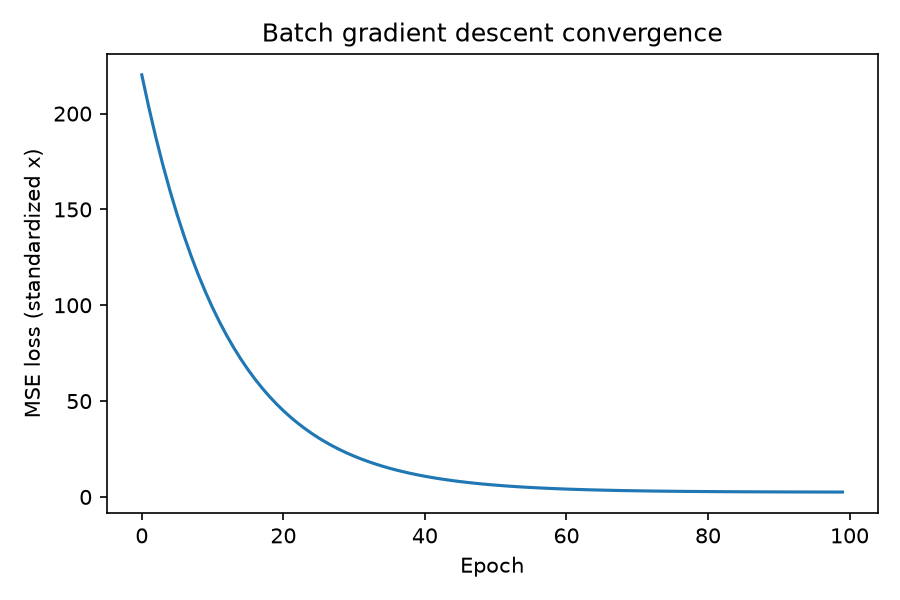
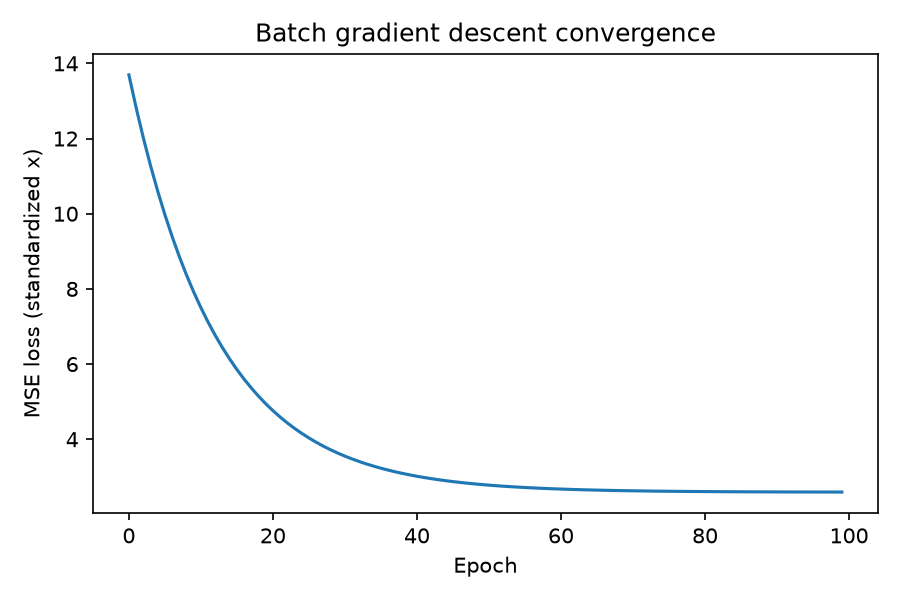
use delaney-esol csv

diff --git a/projects/01_linear_reg/plotting.py b/projects/01_linear_reg/plotting.py
@@ -52,8 +52,8 @@ def plot_fit(
         label="Gradient descent fit",
     )
 
-    plt.xlabel("log2 LFQ intensity, RNF4-WT")
-    plt.ylabel("log2 LFQ intensity, RNF4-mutant")
+    plt.xlabel("Molecular Weight")
+    plt.ylabel("measured log solubility (mol/L")
 
     plt.legend()
     plt.tight_layout()
@@ -118,33 +118,31 @@ def plot_lr_sweep(
     final_losses: np.ndarray,
     path: Path) -> None:
 
-    diverged = final_losses >= DIVERGED_CAP
+    # diverged = final_losses >= DIVERGED_CAP
 
     plt.figure(figsize=(6.5, 5))
     plt.plot(
-        learning_rates[~diverged],
-        final_losses[~diverged],
+        learning_rates,
+        final_losses,
         "o-",
         color="steelblue",
         markersize=4,
     )
-    if diverged.any():
-        plt.scatter(
-            learning_rates[diverged],
-            final_losses[diverged],
-            color="crimson",
-            marker="x",
-            s=50,
-            label="Diverged (capped for display)",
-        )
-
-    plt.axvline(0.5, color="gray", linestyle=":", linewidth=1, label="Theoretical optimum (lr=0.5)")
-    plt.xscale("log")
+    # if diverged.any():
+    #     plt.scatter(
+    #         learning_rates[diverged],
+    #         final_losses[diverged],
+    #         color="crimson",
+    #         marker="x",
+    #         s=50,
+    #         label="Diverged (capped for display)",
+    #     )
+    # plt.xscale("log")
     plt.yscale("log")
     plt.xlabel("Learning rate")
     plt.ylabel("MSE loss at final epoch")
     plt.title("Effect of learning rate on final training loss")
-    plt.legend(fontsize=8)
+    # plt.legend(fontsize=8)
     plt.tight_layout()
     plt.savefig(path, dpi=150)
     plt.close()

diff --git a/projects/01_linear_reg/linear_regression.py b/projects/01_linear_reg/linear_regression.py
@@ -1,9 +1,7 @@
 """
 Univariate linear regression via batch gradient descent
 
-Dataset: Barroso-Gomila et al. 2023 RNF4 BioE3 proximity-labeling proteomics screen (data/barroso-gomila2023.xlsx)
-
-x and y are log2 LFQ intensities of a wt and mutant protein RNF4
+Dataset: delaney-esol.csv
 """
 
 from __future__ import annotations
@@ -27,9 +25,9 @@ REPO_ROOT = Path(__file__).resolve().parents[2]
 DATA_DIR = REPO_ROOT / "data"
 FIG_DIR = Path(__file__).resolve().parent / "fig"
 
-SHEET_NAME = "RNF4 BioE3"
-X_COL = "RNF4WT_1"
-Y_COL = "RNF4CA_1"
+# SHEET_NAME = "RNF4 BioE3"
+X_COL = "Molecular Weight"
+Y_COL = "measured log solubility in mols per litre"
 
 LEARNING_RATES = np.logspace(-4, np.log10(1.5), 40)
 DIVERGED_CAP = 1.0e4  # sentinel ceiling so diverging runs are still visible on a log-scale plot
@@ -62,9 +60,9 @@ def build_parser():
 
 def load_xy() -> tuple[np.ndarray, np.ndarray]:
     # the excel file has multiple sheets
-    xlsx_files = sorted(glob.glob(str(DATA_DIR / "barroso-gomila2023.xlsx")))
+    # xlsx_files = sorted(glob.glob(str(DATA_DIR / "barroso-gomila2023.xlsx")))
 
-    df = pd.read_excel(xlsx_files[0], sheet_name=SHEET_NAME) # load the first sheet
+    df = pd.read_csv(DATA_DIR / "delaney-esol.csv") # load the first sheet
     x = df[X_COL].to_numpy(dtype=float)
     y = df[Y_COL].to_numpy(dtype=float)
     return x, y
